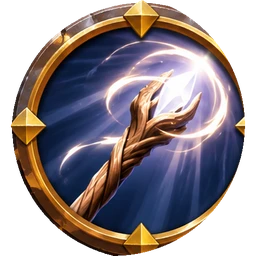
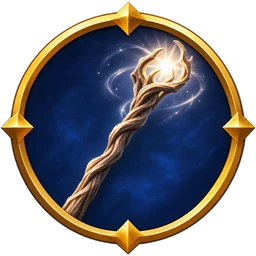
La Brecha: botón de ataque de Gandalf nuevo (de frente y entero)
Claude-Session: https://claude.ai/code/session_016LDX8tPK4hmFFGShDH38QJ

diff --git a/CLAUDE.md b/CLAUDE.md
@@ -209,7 +209,7 @@ Juego web privado para 9 amigos (Arturo, Porru, Adrián, Carlos, Fer, Edo, Rodri
 - PACK VADO 18 (16/11, originales en `tools/vado/pack18`): héroes nuevos GANDALF (como Lux: Q linea que aturde 1,3 s, W escudo también a aliados a 7 m `aliados`, E zona de luz que frena, R rayo largo que perfora; proyectil `luz` hecho en `modeloProy`) y ORCO DE MORDOR (como Darius: Q area con `curaH` por héroe, W cono con `lento`, E linea con `tira` que arrastra, R tipo `ejecuta` = daño + 45 % de la vida que falta y se recarga si derriba). Modelos `modelos/gandalf_kk.glb`/`orco_kk.glb` (KayKit Mage/Barbarian, en VADO), retratos `ui/r_<id>.webp` (`ret`, helper `RET(tipo)`). Bots rotan entre los 6 (`(slot*5+1)%6`). Equilibrado con `/tmp/t_bal.mjs A B n` (Node, 1v1 entre bots): aún pierden algo contra jinete y enano. Uruk y Gollum aparcados.
 - Al lanzar una habilidad el héroe mira hacia ella 0,55 s (`o.encara`). Cancelar como en el Wild Rift: arrastras para apuntar y vuelves el dedo al botón (clase `.cancela`).
 - ATRÁS EN LA APP (16/11): MainActivity ya no usa el historial: pregunta a `window.brechaAtras()` (también con OnBackInvokedCallback en Android 13+); en partida o sala sale «¿Salir de la partida?», con una ventana abierta la cierra y en el menú pregunta «¿Salir de La Brecha?». Hay que REINSTALAR la APK.
-- DAÑO FÍSICO Y MÁGICO (16/11, como el LoL): cada héroe tiene `arm` (armadura) y `rm` (resistencia mágica) que crecen +3 / +1,5 por nivel; el daño se reduce ×100/(100+defensa) en `dana` (tipo `mag` → rm, `pura` → nada, lo demás → arm). Habilidades con `mag: true` (todas las de Gandalf) hacen tipo `mag` y crecen con `poder`/160 en vez de con el daño. Objetos nuevos: Manto de Lórien (rm), Tomo de Rivendel (poder), Báculo de los Istari, Narya, Velo de Galadriel; yelmo/escudo/mithril dan armadura en vez de `reduc`. Iconos de los objetos de magia provisionales (los de las habilidades de Gandalf). MANÁ (16/11, pedido de Arturo: «tiene que desaparecer con las habilidades»; antes se había dejado sin maná): cada héroe tiene `mana`/`crecM` en `HEROES` y cada habilidad su coste `mn` (referencia Lux y Darius); `stats()` da `mana` y `rmana` (3 + 0,3 por nivel al segundo; +12 % del máximo por segundo en la fuente; lleno al reaparecer; la Savia del huorn da más; las reliquias del Duelo devuelven un 20 %). `usaHab` no lanza sin maná y los bots lo respetan. Tomo de Rivendel, Báculo y Narya dan maná. En la foto van `mana` y `manaMax` (campos 38-39 de la fila del héroe). En pantalla: barra azul bajo la vida de cada héroe (`.bv .mn`), botón azulado si no llega (`.sinMana`) y aviso «No tienes maná suficiente». Prueba de equilibrio entre bots con la simulación del servidor: `node /tmp/t_bal.mjs A B n` (los bots casi no gastan el maná; a una persona que lance todo seguido se le acaba en unos 30 s). El botón de ataque de Gandalf (`ui/at_gandalf.webp`) venía con fondo blanco y cortado por la derecha: se le quitó el blanco (provisional) y está pedido de nuevo. Equilibrado con bots: repartido.
+- DAÑO FÍSICO Y MÁGICO (16/11, como el LoL): cada héroe tiene `arm` (armadura) y `rm` (resistencia mágica) que crecen +3 / +1,5 por nivel; el daño se reduce ×100/(100+defensa) en `dana` (tipo `mag` → rm, `pura` → nada, lo demás → arm). Habilidades con `mag: true` (todas las de Gandalf) hacen tipo `mag` y crecen con `poder`/160 en vez de con el daño. Objetos nuevos: Manto de Lórien (rm), Tomo de Rivendel (poder), Báculo de los Istari, Narya, Velo de Galadriel; yelmo/escudo/mithril dan armadura en vez de `reduc`. Iconos de los objetos de magia provisionales (los de las habilidades de Gandalf). MANÁ (16/11, pedido de Arturo: «tiene que desaparecer con las habilidades»; antes se había dejado sin maná): cada héroe tiene `mana`/`crecM` en `HEROES` y cada habilidad su coste `mn` (referencia Lux y Darius); `stats()` da `mana` y `rmana` (3 + 0,3 por nivel al segundo; +12 % del máximo por segundo en la fuente; lleno al reaparecer; la Savia del huorn da más; las reliquias del Duelo devuelven un 20 %). `usaHab` no lanza sin maná y los bots lo respetan. Tomo de Rivendel, Báculo y Narya dan maná. En la foto van `mana` y `manaMax` (campos 38-39 de la fila del héroe). En pantalla: barra azul bajo la vida de cada héroe (`.bv .mn`), botón azulado si no llega (`.sinMana`) y aviso «No tienes maná suficiente». Prueba de equilibrio entre bots con la simulación del servidor: `node /tmp/t_bal.mjs A B n` (los bots casi no gastan el maná; a una persona que lance todo seguido se le acaba en unos 30 s). El botón de ataque de Gandalf (`ui/at_gandalf.webp`) venía con fondo blanco y cortado por la derecha: rehecho por ChatGPT el 16/11 (`tools/vado/pack18/at_gandalf_v2.png`, de frente y entero). Equilibrado con bots: repartido.
 - PACK VADO 19/20 (16/11, originales en `tools/vado/pack19` y `pack20`): marcas de apuntado propias de cada héroe (`ui/ind_<heroe>_<tecla|alcance>.webp`, recortadas al dibujo; `IND_HEROE`, `marcaH` en juego.js, mezcla normal con opacidad 0,8; si falta una, la genérica) e iconos de los objetos de magia (`ui/obj_*.webp`; `ICO()` admite rutas). La Guillotina (`ejecuta`) también se apunta.
 - ARRASTRAR HABILIDADES (16/11, fallo grave encontrado al probar): `touch-action:manipulation` en `#mandos *` (puesto contra el zoom del iPhone) dejaba al navegador cancelar el arrastre (`pointercancel`) y las habilidades no se podían apuntar; ahora `#mandos button,#mandos button *` llevan `touch-action:none` y las imágenes de los mandos `pointer-events:none`.
 - MENÚ ANIMADO (16/11, Pack Vado 21, originales en `tools/vado/pack21`): `#mFondo` dentro de `#menu` con 8 capas (`ui/menu_{cielo,fondo,medio,niebla,pavesas,frente}.webp`) que se mueven solo con CSS (transform): cielo con zoom lento, fondo/medio/frente en paralaje, dos franjas de niebla que pasan, pavesas como tira de 16 fotogramas con `steps(15)` y `mix-blend-mode:screen`. `#menu{isolation:isolate}` + `#mFondo{z-index:-1}` para quedar debajo del contenido. Sin movimiento si el móvil pide «reducir movimiento».

diff --git a/docs/pendiente-chatgpt.md b/docs/pendiente-chatgpt.md
@@ -31,4 +31,4 @@ ART = chat normal de ChatGPT (no gasta tokens). WORK = modo agente (gasta tokens
 - [x] ~~Pack Vado 19 · ART~~ (HECHO 16/11): marcas de apuntado propias de cada héroe (prompt en `docs/prompts-vado.md`).
 - [x] ~~La Brecha · ART: iconos de 5 objetos~~ (HECHO 16/11, Pack 20) (Manto de Lórien, Tomo de Rivendel, Báculo de los Istari, Narya, Velo de Galadriel), mismo estilo que `public/abismo/iconos/obj_*.webp`.
 - [x] ~~Pack Vado 21 · ART~~ (HECHO 16/11): fondo del menú de La Brecha en 6 capas para animarlo (cielo, fondo con Orthanc, medio con el vado y estandartes, frente, niebla, pavesas). Prompt dado el 16/11.
-- [ ] La Brecha · ART: botón de ataque básico de Gandalf (`ui/at_gandalf.webp`): el de ahora venía con fondo blanco, torcido y cortado por la derecha. Medallón redondo visto DE FRENTE, entero y centrado, con el bastón de Gandalf con luz, mismo marco dorado con cuatro rombos que el del Orco (`ui/at_orco.webp`, adjuntarlo), 1024x1024, FONDO TRANSPARENTE de verdad, sin texto.
+- [x] (HECHO 16/11, original en `tools/vado/pack18/at_gandalf_v2.png`) La Brecha · ART: botón de ataque básico de Gandalf (`ui/at_gandalf.webp`): el de ahora venía con fondo blanco, torcido y cortado por la derecha. Medallón redondo visto DE FRENTE, entero y centrado, con el bastón de Gandalf con luz, mismo marco dorado con cuatro rombos que el del Orco (`ui/at_orco.webp`, adjuntarlo), 1024x1024, FONDO TRANSPARENTE de verdad, sin texto.
